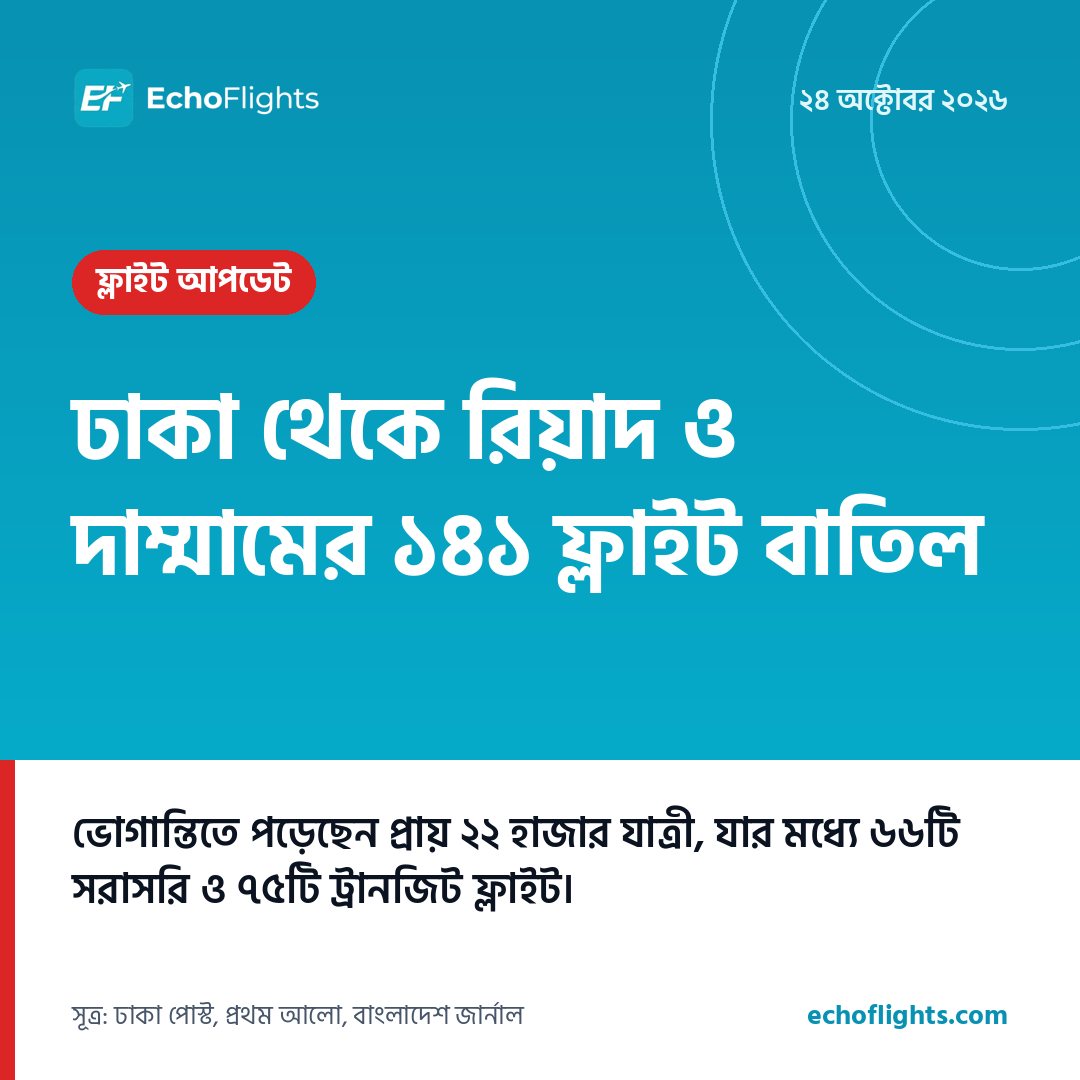
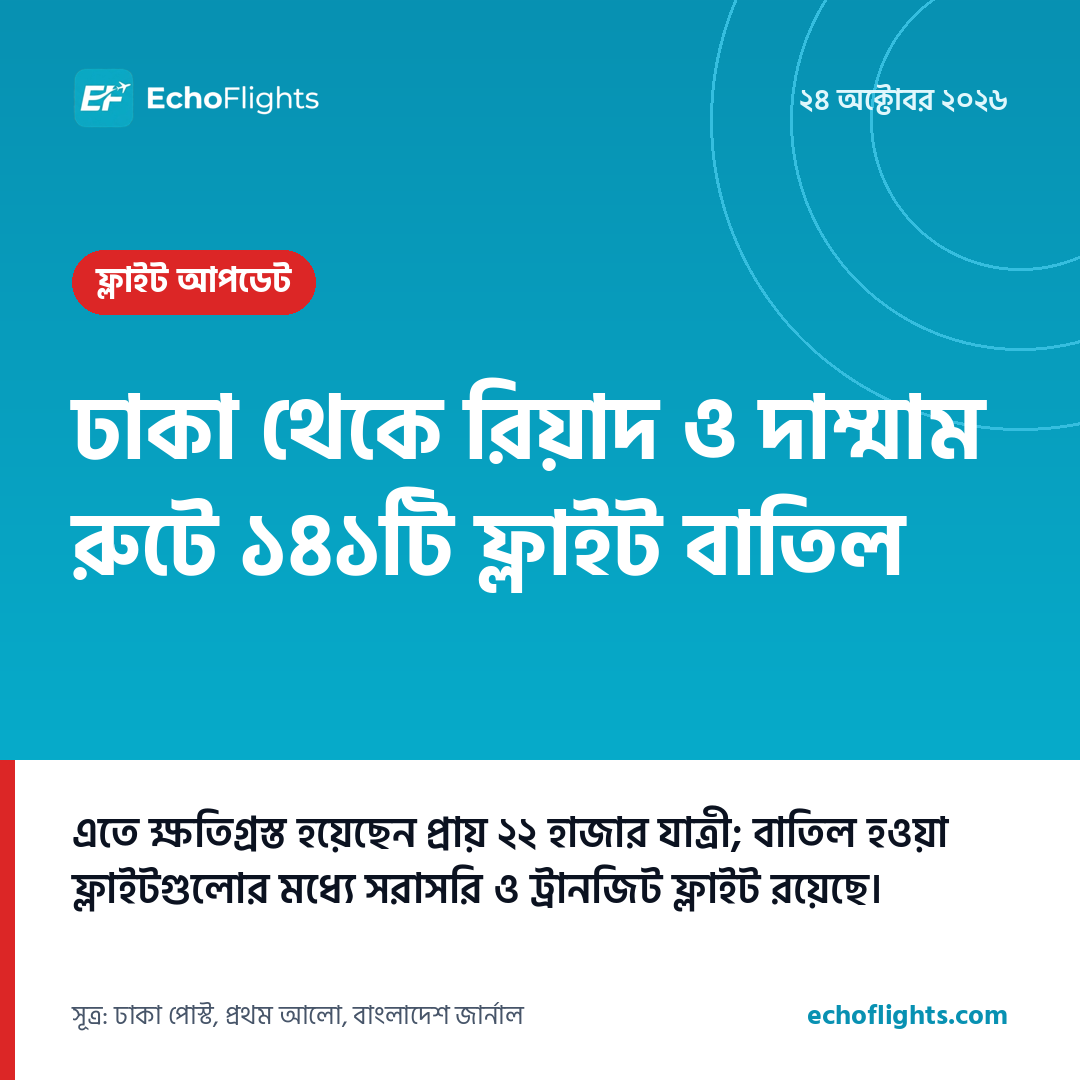
Draft 2026-10-24 05:09 UTC

Changed region(s): [[0.0611, 0.7333, 0.8861, 0.8556], [0.0611, 0.4278, 0.9167, 0.55], [0.7028, 0.3667, 0.9167, 0.4278]]

diff --git a/data/drafts/2026-10-24/58e015da5a/blog.md b/data/drafts/2026-10-24/58e015da5a/blog.md
@@ -1,16 +1,18 @@
-# ঢাকা থেকে সৌদি আরবের রিয়াদ ও দাম্মামের ১৪১ ফ্লাইট বাতিল: ভোগান্তিতে প্রায় ২২ হাজার যাত্রী
+# ঢাকা থেকে রিয়াদ ও দাম্মামের ১৪১ ফ্লাইট বাতিল, বিপাকে প্রায় ২২ হাজার যাত্রী
 
-সৌদি আরবের রিয়াদ ও দাম্মাম রুটে চলাচলকারী ১৪১টি সরাসরি ও ট্রানজিট ফ্লাইট বাতিল ও স্থগিত করা হয়েছে। বেসামরিক বিমান চলাচল কর্তৃপক্ষের (বেবিচক) দেওয়া তথ্য অনুযায়ী, এতে অন্তত ২১ হাজার ৯৩৩ জন যাত্রী ক্ষতিগ্রস্ত হয়েছেন।
+ঢাকা থেকে সৌদি আরবের রিয়াদ ও দাম্মাম রুটের ১৪১টি ফ্লাইট বাতিল ও বিঘ্নিত হয়েছে। এতে চরম ভোগান্তির মুখে পড়েছেন ২১ হাজার ৯৩৩ জন যাত্রী। বেসামরিক বিমান চলাচল কর্তৃপক্ষ (বেবিচক) সংবাদ বিজ্ঞপ্তির মাধ্যমে এই তথ্য নিশ্চিত করেছে।
 
 ## কী ঘটেছে
-বেবিচকের বিজ্ঞপ্তিতে জানানো হয়েছে, বাতিল ও স্থগিত হওয়া ফ্লাইটের মধ্যে ৬৬টি সরাসরি ফ্লাইট এবং ৭৫টি ট্রানজিট ফ্লাইট ছিল। ইয়েমেনের সশস্ত্র গোষ্ঠী হুতিদের হামলার পর সৌদি আরবের বিমানবন্দরগুলোতে ফ্লাইট পরিচালনায় বিধিনিষেধ আরোপ করায় এই পরিস্থিতির সৃষ্টি হয়।
+সৌদি আরবের বিমানবন্দরগুলোতে বিধিনিষেধের কারণে বাংলাদেশের সঙ্গে সরাসরি ও ট্রানজিট রুটের ফ্লাইট চলাচলে এই অচলাবস্থা তৈরি হয়েছে। বেবিচকের তথ্য অনুযায়ী, বাতিল হওয়া ফ্লাইটের মধ্যে ৬৬টি সরাসরি এবং ৭৫টি ট্রানজিট ফ্লাইট রয়েছে।
 
-সরাসরি ফ্লাইটের মধ্যে বিমান বাংলাদেশ এয়ারলাইন্সের ২৭টি, সৌদি অ্যারাবিয়ান এয়ারলাইন্সের (সৌদিয়া) ১৯টি, ইউএস-বাংলা এয়ারলাইন্সের ১০টি এবং রিয়াদ এয়ারের ১০টি ফ্লাইট রয়েছে। এছাড়া ট্রানজিট ফ্লাইটের মধ্যে ইন্ডিগোর ২৯টি, এমিরেটসের ১৪টি, কাতার এয়ারওয়েজের ৯টি, ফ্লাইদুবাইয়ের ৮টি, সালাম এয়ারের ৭টি, এয়ার ইন্ডিয়ার ৭টি এবং ইজিপ্ট এয়ারের ১টি ফ্লাইট বাতিল হয়েছে।
+সরাসরি ফ্লাইটের তালিকায় রয়েছে বিমান বাংলাদেশ এয়ারলাইনসের ২৭টি, সৌদিয়া এয়ারলাইনসের ১৯টি, ইউএস-বাংলা এয়ারলাইনসের ১০টি এবং রিয়াদ এয়ারের ১০টি ফ্লাইট। অন্যদিকে ট্রানজিট ফ্লাইটের মধ্যে রয়েছে ইন্ডিগোর ২৯টি, এমিরেটসের ১৪টি, কাতার এয়ারওয়েজের ৯টি, ফ্লাইদুবাইয়ের ৮টি, সালাম এয়ারের ৭টি, এয়ার ইন্ডিয়ার ৭টি এবং ইজিপ্ট এয়ারের ১টি ফ্লাইট। ট্রানজিট দেশগুলো থেকে ফ্লাইট স্থগিত থাকায় ঢাকা থেকে এসব এয়ারলাইন্স যাত্রী পরিবহন করতে পারেনি।
 
 ## বাংলাদেশি যাত্রী ও প্রবাসীদের জন্য
-হঠাৎ ফ্লাইট বাতিলের কারণে যেসব প্রবাসী শ্রমিক ও যাত্রী ঢাকা থেকে সৌদি আরবের উদ্দেশ্যে যাত্রা করতে পারেননি, তারা বড় ধরনের অনিশ্চয়তায় পড়েছেন। ক্ষতিগ্রস্ত যাত্রীদের নিজ নিজ এয়ারলাইন্স বা ট্রাভেল এজেন্সির সঙ্গে সরাসরি যোগাযোগ করার পরামর্শ দেওয়া হচ্ছে। বিমানবন্দরে যাওয়ার আগে ফ্লাইট পুনঃনির্ধারণ (রি-শিডিউল) বা টিকিটের সর্বশেষ অবস্থা অফিশিয়াল মাধ্যমে যাচাই করে নেওয়া নিরাপদ।
+ফ্লাইট বাতিলের কারণে হাজার হাজার যাত্রী অনিশ্চয়তায় পড়েছেন। ইতোমধ্যে বিমান বাংলাদেশ এয়ারলাইনস জানিয়েছে, তাদের দাম্মামগামী ফ্লাইট ২৫ অক্টোবর পর্যন্ত এবং রিয়াদের ফ্লাইট ৩১ অক্টোবর পর্যন্ত বাতিল করা হয়েছে।
+
+বর্তমান পরিস্থিতিতে সৌদি আরবগামী যাত্রীদের বিমানবন্দরে যাওয়ার আগে সংশ্লিষ্ট এয়ারলাইন্সের কাস্টমার কেয়ার বা ট্রাভেল এজেন্সির সঙ্গে যোগাযোগ করে ফ্লাইটের সর্বশেষ অবস্থা জানার পরামর্শ দেওয়া হচ্ছে। ফ্লাইট বাতিল হলে টিকিট রি-ইস্যু বা রিফান্ডের বিষয়ে এয়ারলাইন্সের নির্ধারিত নিয়ম অনুসরণ করতে হবে।
 
 ## সূত্র
-- ঢাকা পোস্ট
 - প্রথম আলো
+- ঢাকা পোস্ট
 - বাংলাদেশ জার্নাল

diff --git a/data/drafts/README.md b/data/drafts/README.md
@@ -2,32 +2,30 @@
 
 Newest first. Nothing here has been published.
 
-## ঢাকা থেকে রিয়াদ ও দাম্মামের ১৪১ ফ্লাইট বাতিল
+## ঢাকা থেকে রিয়াদ ও দাম্মাম রুটে ১৪১টি ফ্লাইট বাতিল
 
-⏳ will retry · 24 Oct 10:33 Dhaka · score 10 · flight_disruption · sources: BD24Live, Bangladesh Journal, Dhaka Post, Prothom Alo
+✅ approved · 24 Oct 11:06 Dhaka · score 10 · flight_disruption · sources: BD24Live, Bangladesh Diplomat, Bangladesh Journal, Dhaka Post, Prothom Alo
 
 <img src="2026-10-24/58e015da5a/card.png" width="420">
 
 **Facebook caption**
 
 ```
-সৌদি আরবের রিয়াদ ও দাম্মামগামী ১৪১টি ফ্লাইট বাতিল ও স্থগিত করা হয়েছে। বেসামরিক বিমান চলাচল কর্তৃপক্ষের (বেবিচক) তথ্য অনুযায়ী, এতে ২১ হাজার ৯৩৩ জন যাত্রী সরাসরি ক্ষতিগ্রস্ত হয়েছেন।
+⚠ ঢাকা থেকে সৌদি আরবের রিয়াদ ও দাম্মামগামী ১৪১টি ফ্লাইট বাতিল ও বিঘ্নিত হয়েছে। এতে ২১ হাজার ৯৩৩ জন যাত্রী ভোগান্তিতে পড়েছেন।
 
-বাতিল হওয়া ফ্লাইটের মধ্যে ৬৬টি সরাসরি এবং ৭৫টি ট্রানজিট ফ্লাইট রয়েছে। সরাসরি ফ্লাইটের মধ্যে বিমান বাংলাদেশ এয়ারলাইন্সের ২৭টি, সৌদিয়ার ১৯টি, ইউএস-বাংলা এয়ারলাইন্সের ১০টি এবং রিয়াদ এয়ারের ১০টি ফ্লাইট রয়েছে। হুতিদের হামলার মুখে সৌদি আরবের বিমানবন্দরগুলোতে বিধিনিষেধ জারির কারণে এ সংকট তৈরি হয়।
+বেসামরিক বিমান চলাচল কর্তৃপক্ষ (বেবিচক) জানিয়েছে, এসব ফ্লাইটের মধ্যে ৬৬টি সরাসরি এবং ৭৫টি ট্রানজিট ফ্লাইট রয়েছে। সরাসরি ফ্লাইটের মধ্যে বিমান বাংলাদেশ এয়ারলাইনসের ২৭টি, সৌদিয়া এয়ারলাইনসের ১৯টি, ইউএস-বাংলার ১০টি এবং রিয়াদ এয়ারের ১০টি ফ্লাইট রয়েছে। এছাড়া ইন্ডিগো, এমিরেটস ও কাতার এয়ারওয়েজসহ বিভিন্ন এয়ারলাইন্সের ৭৫টি ট্রানজিট ফ্লাইট বাতিল হয়েছে।
 
-সূত্র: ঢাকা পোস্ট, প্রথম আলো, বাংলাদেশ জার্নাল
-#SaudiArabia #Riyadh #Dammam #FlightUpdate #Bangladesh #EchoFlights
+সৌদি আরবের বিমানবন্দরে ফ্লাইট পরিচালনায় বিধিনিষেধের কারণে এ পরিস্থিতি তৈরি হয়েছে। যাত্রীদের বিমানবন্দরে যাওয়ার আগে নিজ নিজ এয়ারলাইন্সের সঙ্গে যোগাযোগের পরামর্শ দেওয়া হচ্ছে।
+
+সূত্র: ঢাকা পোস্ট, প্রথম আলো
+#FlightUpdate #SaudiArabia #Riyadh #Dammam #EchoFlights
 ```
 
-**Blog:** [ঢাকা থেকে সৌদি আরবের রিয়াদ ও দাম্মামের ১৪১ ফ্লাইট বাতিল: ভোগান্তিতে প্রায় ২২ হাজার যাত্রী](2026-10-24/58e015da5a/blog.md) · slug `dhaka-riyadh-dammam-141-flights-cancelled`
+**Blog:** [ঢাকা থেকে রিয়াদ ও দাম্মামের ১৪১ ফ্লাইট বাতিল, বিপাকে প্রায় ২২ হাজার যাত্রী](2026-10-24/58e015da5a/blog.md) · slug `dhaka-riyadh-dammam-141-flights-cancelled`
 
 **Sources:** [ঢাকা পোস্ট](https://www.dhakapost.com/national/492472) · [প্রথম আলো](https://www.prothomalo.com/bangladesh/pnpe4lbhe7) · [বাংলাদেশ জার্নাল](https://www.bd-journal.com/bangladesh/314627/রিয়াদ-বিমানবন্দরে-হামলা-১৪১-ফ্লাইট-বাতিল-আটকে-পড়লেন-২২-হাজার-যাত্রী) (feed summary only)
 
-**Review notes (last attempt):**
-
-- card_subline: Grammatically incorrect and illogical phrasing; 'যার মধ্যে' (among whom/which) incorrectly suggests that the flights are a subset of the passengers.
-- blog_body: The section 'বাংলাদেশি যাত্রী ও প্রবাসীদের জন্য' containing advice for passengers is not supported by any of the provided sources.
-- -: rewrite could not run: gemini-3.8-flash: HTTP 503 after 3s b'{\n  "error": {\n    "code": 503,\n    "message": "This model is currently experiencing high demand. Spikes in d
+_Rewritten once after review (1 issues in first draft)._
 
 ---
 
